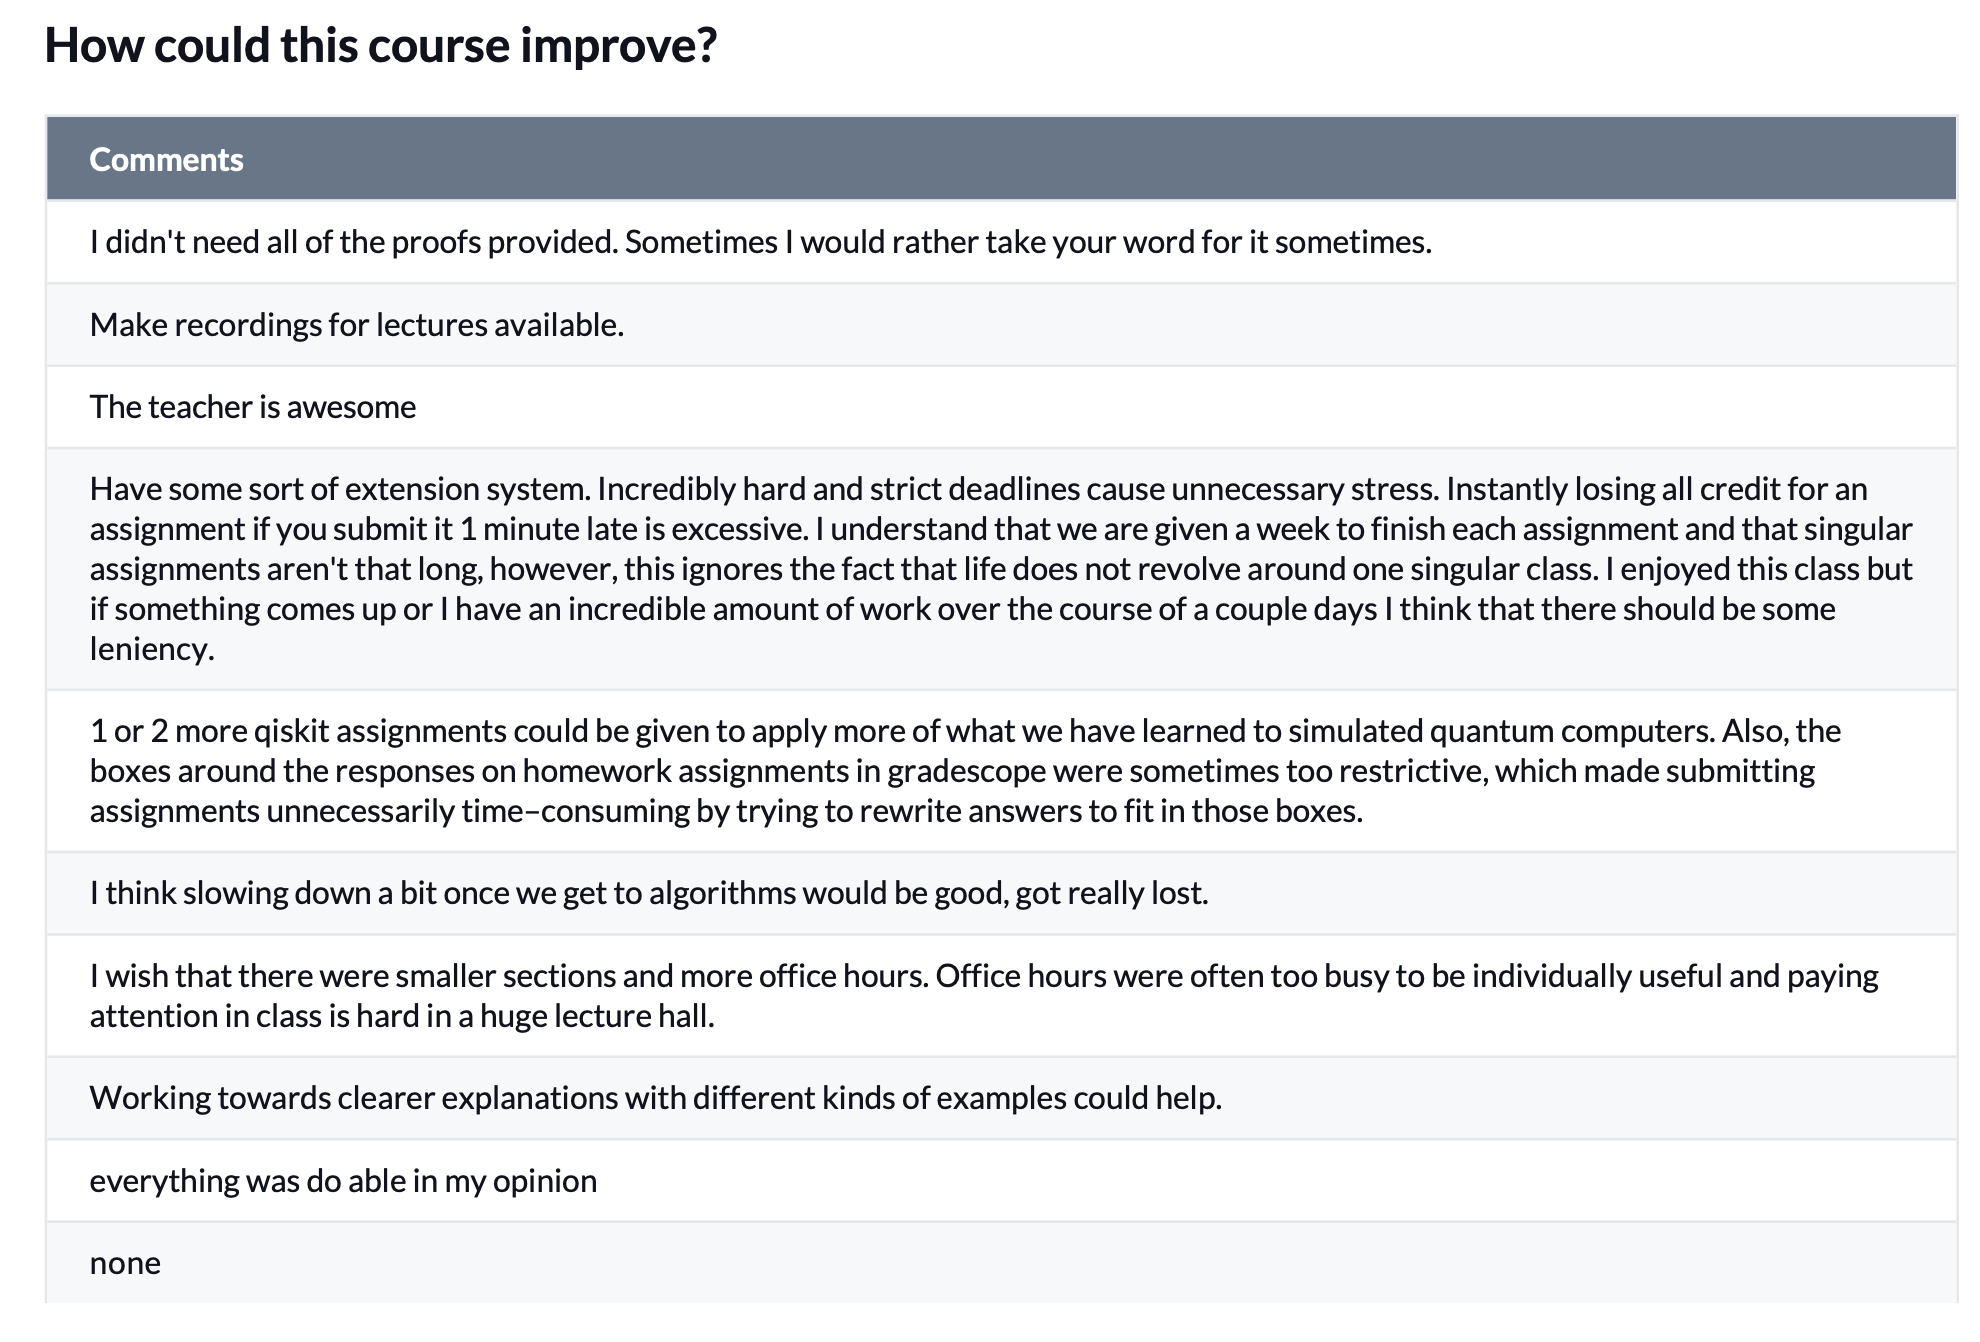
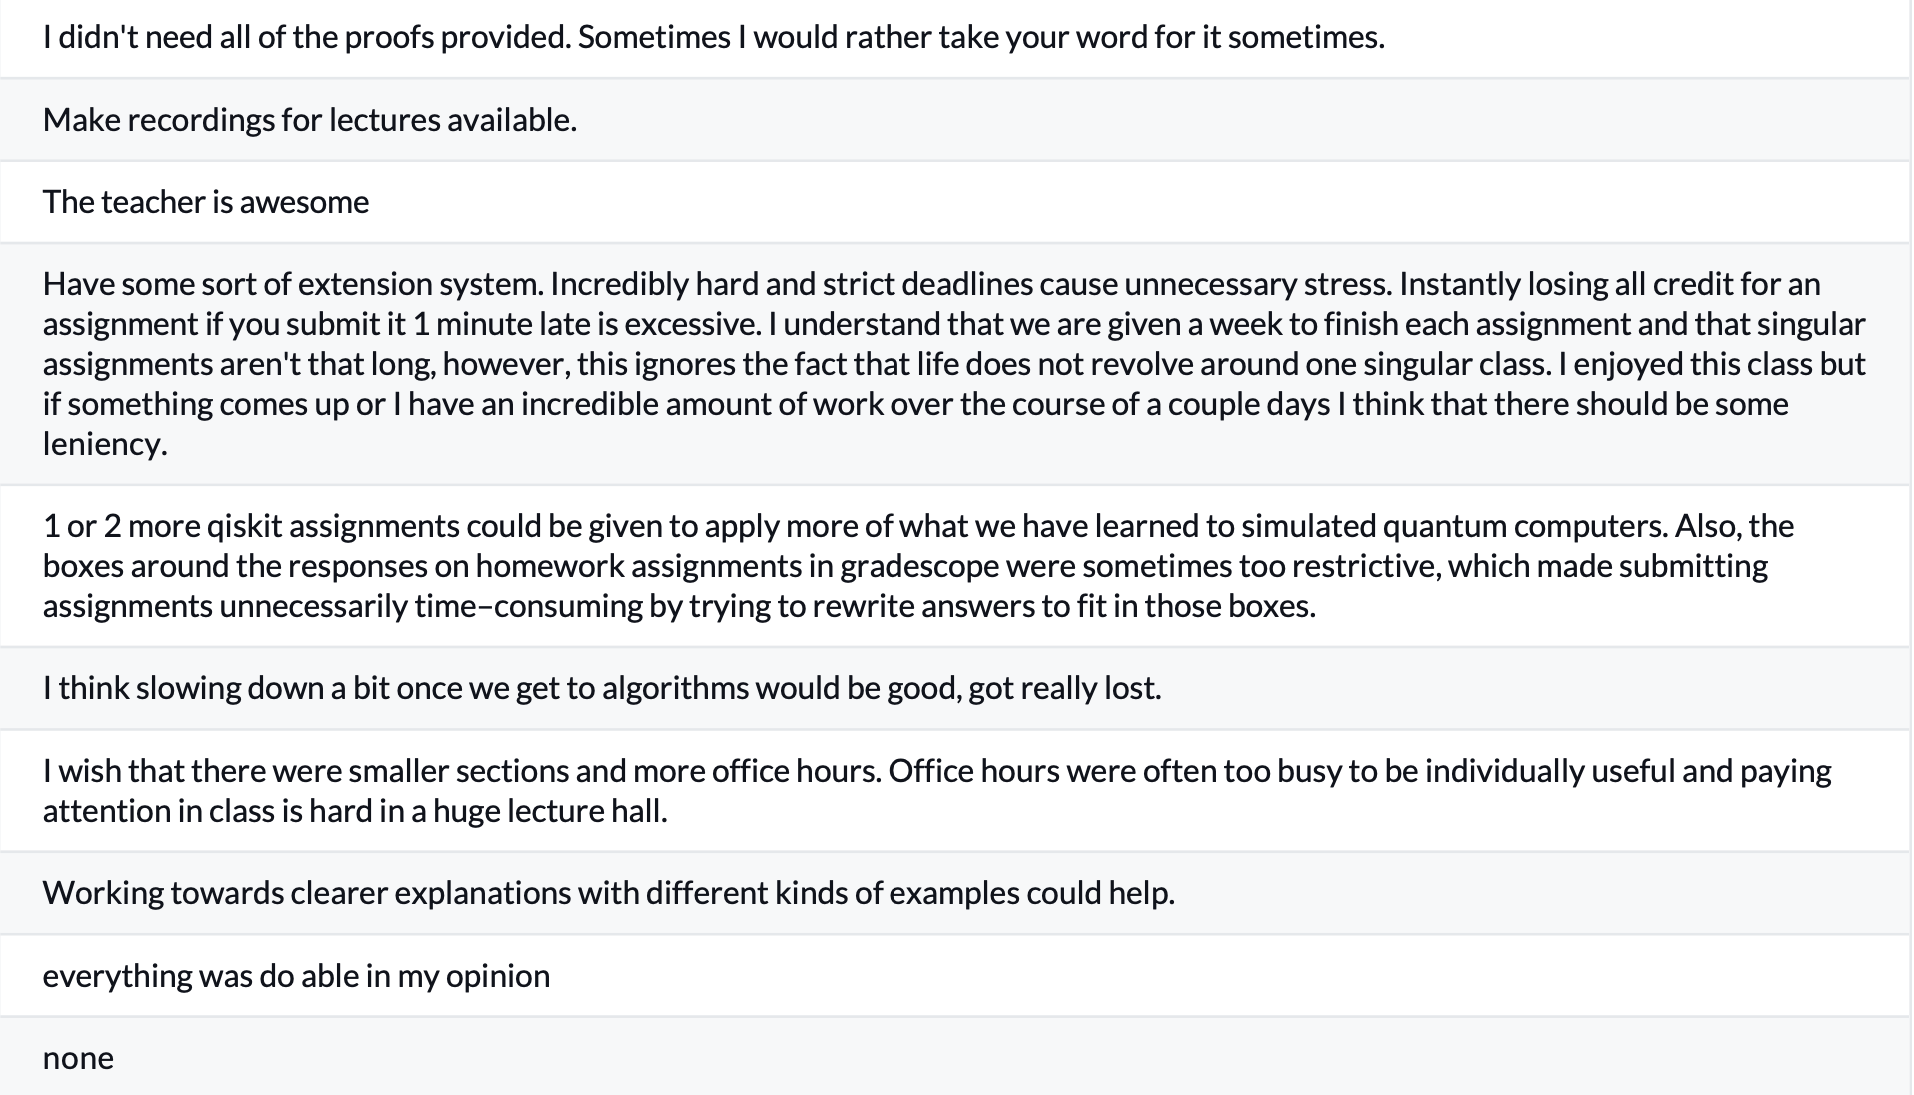
Update on Overleaf.

diff --git a/000.tex b/000.tex
@@ -714,3 +714,47 @@ You are responsible for following \texttt{piazza}, observing assignment due date
 }
     
 \end{frame}
+
+\begin{frame}{How could this course improve?}{From Spring 2024 course evaluations}
+
+\Vskip{-3.6em}\begin{center}\begin{Pixture}[width=0.84\textwidth]{000}{improve.png}  
+\end{Pixture}\end{center}
+    
+\end{frame}
+
+\begin{frame}{Some comments on proofs}{Theory is central to the study of quantum computing}
+
+\begin{itemize}
+    \item I must remain unapologetic for the theory content of this course.
+    \item \Quote{An easy algorithm and a difficult proof}---\href{https://snir.cs.illinois.edu/}{Marc Snir}
+    \item Quantum circuits and algorithms are not so complicated, but to understand them, we must do the math.
+    \begin{itemize}
+        \item This might be in stark contrast to your studies of classical algorithms, for example \href{https://en.wikipedia.org/wiki/Merge_sort}{merge sort}.
+    \end{itemize}
+    \item If you love math you will most likely love this course.
+    \item If you are interested in quantum~$\star$ then you might love this course.
+    \item If you do not like math and are not particularly intrigued by quantum~$\star$, you probably will not like this course. 
+\end{itemize}
+    
+\end{frame}
+
+\begin{frame}{Advice from students (part 1 of 3)}{From Spring 2024 course evaluations}
+
+\Vskip{-4.1em}\begin{center}\begin{Pixture}[width=0.84\textwidth]{000}{tell1.png}  
+\end{Pixture}\end{center}
+    
+\end{frame}
+
+\begin{frame}{Advice from students (part 2 of 3)}{From Spring 2024 course evaluations}
+
+\Vskip{-3.6em}\begin{center}\begin{Pixture}[width=0.95\textwidth]{000}{tell2.png}  
+\end{Pixture}\end{center}
+    
+\end{frame}
+
+\begin{frame}{Advice from students (part 3 of 3)}{From Spring 2024 course evaluations}
+
+\Vskip{-3.6em}\begin{center}\begin{Pixture}[width=0.95\textwidth]{000}{tell3.png}  
+\end{Pixture}\end{center}
+    
+\end{frame}
